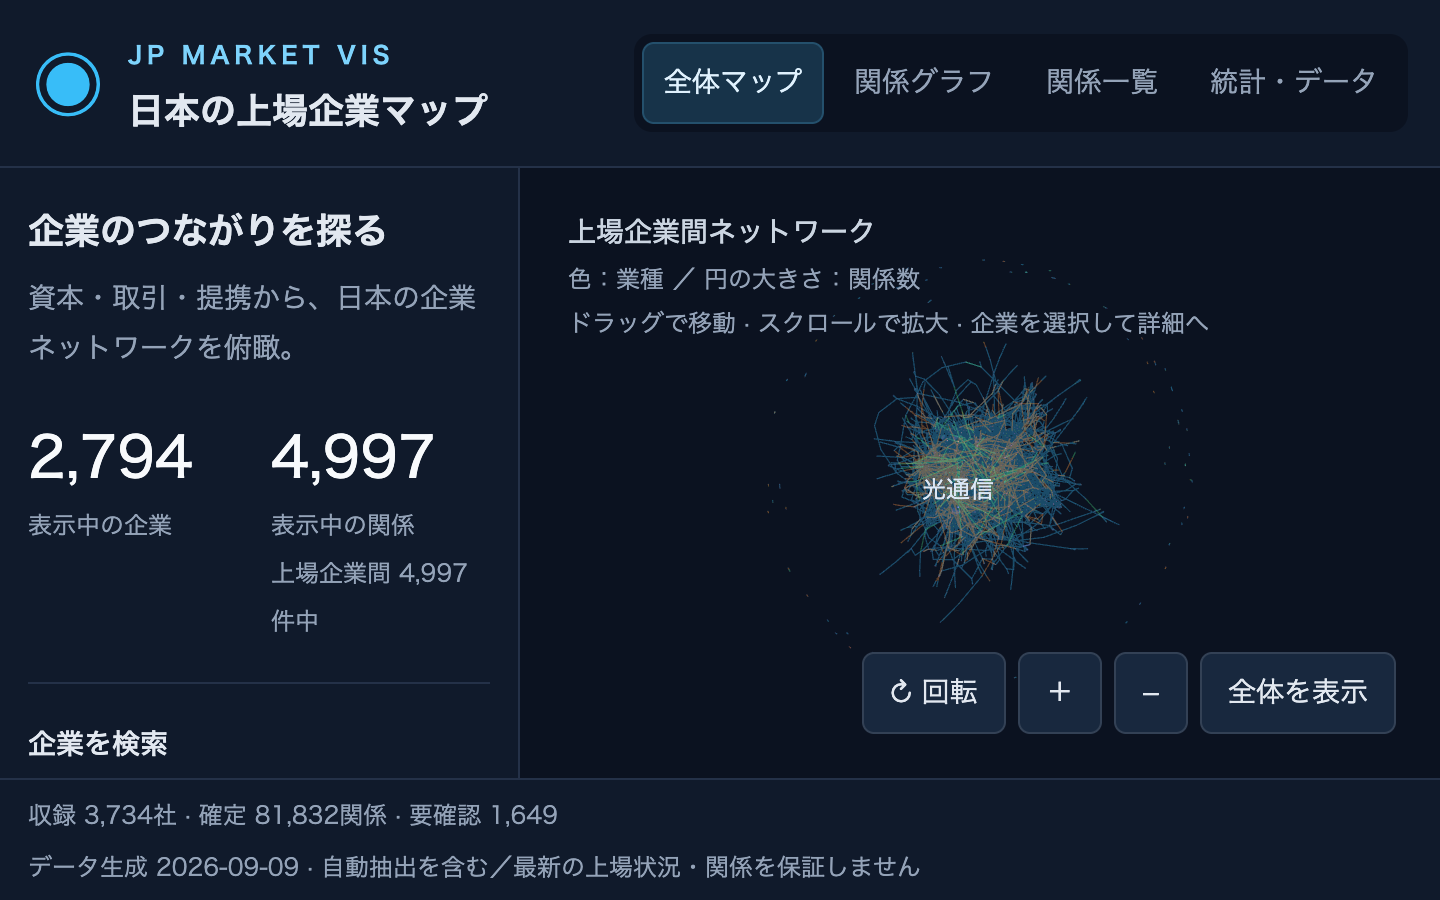
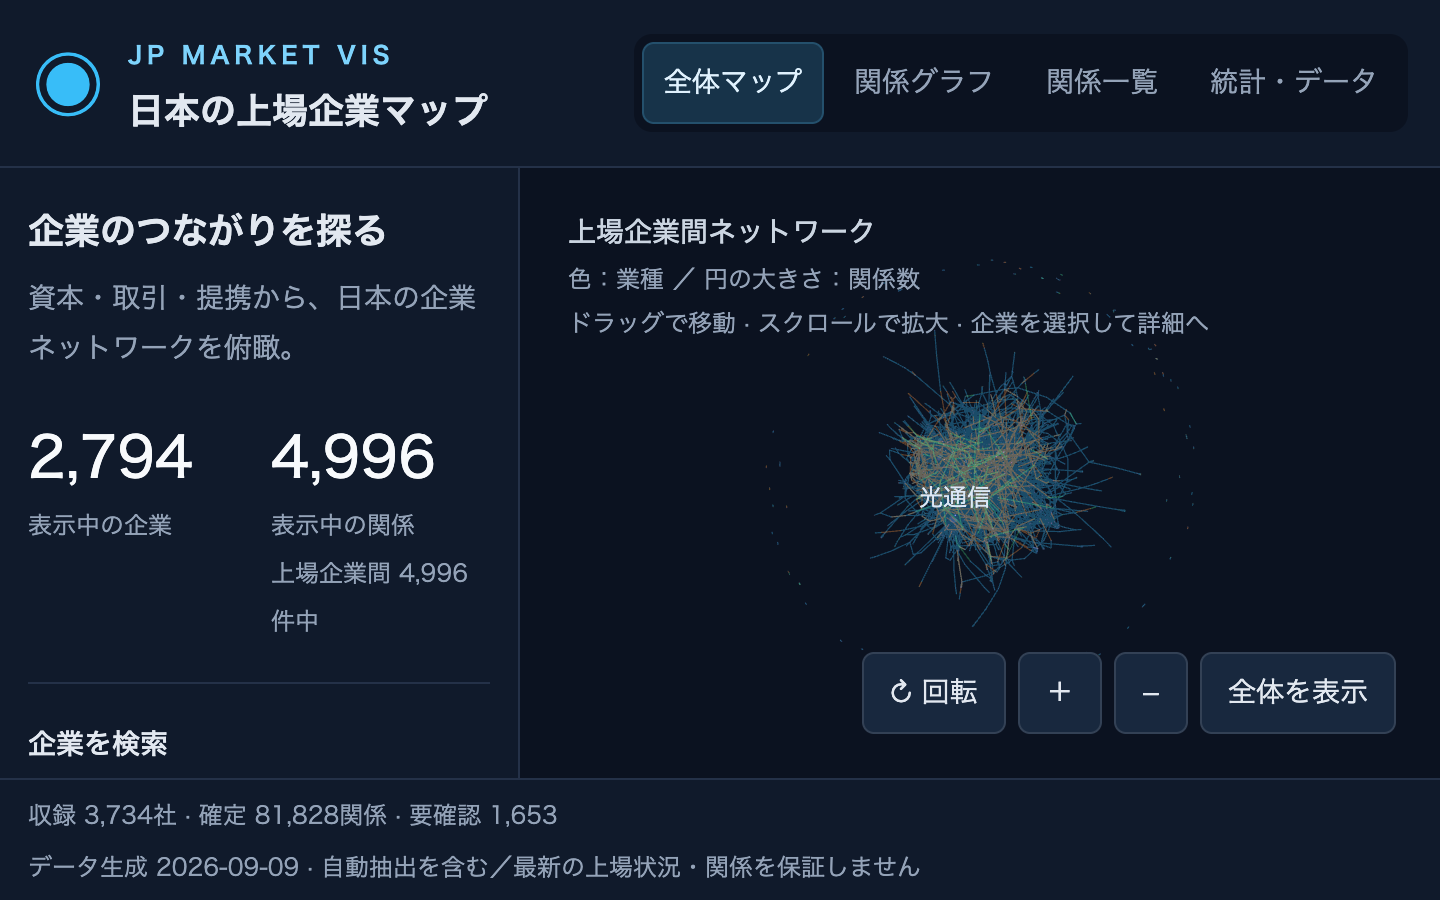
レビュー対応後の最終スタックで実操作レビューを再実行（39/39 合格）
Claude-Session: https://claude.ai/code/session_01LuhmHxdYo2ttrz4ATNVynS

diff --git a/qa/results/2026-09-09/REPORT.md b/qa/results/2026-09-09/REPORT.md
@@ -1,6 +1,6 @@
 # 実操作レビュー結果 2026-09-09
 
-- 対象コミット: `31c65899c64b69646b662e09fe56e0ed1a42d159`
+- 対象コミット: `faf737467342b36b47808478e8e94d2f520f8f2a`
 - URL: http://localhost:5184/JP_Market_Vis/
 - ブラウザ: Chrome 152.0.7977.83 (headless, Playwright)
 - 端末: darwin arm64（PC 1440×900 / 200%拡大相当 720×450 / タッチ 390×844 はエミュレーション。実機は未実施）
@@ -8,21 +8,21 @@
 
 | シナリオ | 項目 | 結果 | 補足 |
 | --- | --- | --- | --- |
-| PC初回 | 初回表示（マップ描画まで） | 合格 | 1120 ms |
+| PC初回 | 初回表示（マップ描画まで） | 合格 | 1341 ms |
 | PC初回 | コンソールエラーなし | 合格 |  |
 | PC初回 | 横スクロールなし | 合格 |  |
 | PC初回 | 見出し・操作部品の重なりなし | 合格 | {"capTools":false} |
 | 操作 | 回転ON | 合格 |  |
-| 操作 | 回転中のホイール拡大 | 合格 | 0.2008097916841507 -> 0.23093125224113464 |
+| 操作 | 回転中のホイール拡大 | 合格 | 0.20268428325653076 -> 0.23308692872524261 |
 | 操作 | 連続ドラッグ後、詳細を誤って開かない | 合格 |  |
-| 負荷 | 回転ドラッグ中の再描画回数（約0.6秒） | 合格 | 63 |
+| 負荷 | 回転ドラッグ中の再描画回数（約0.6秒） | 合格 | 62 |
 | 負荷 | 回転ON停止中の再描画回数/秒 | 合格 | 0 |
 | 操作 | 外側リリース後の再ドラッグで固着なし | 合格 |  |
 | 操作 | 矢印キー・Escで移動モードに戻る | 合格 |  |
 | 操作 | 回転後のクリックで見た目どおりの企業が開く | 合格 | キャンディル -> キャンディル |
 | フィルタ | 全解除で空状態を表示 | 合格 |  |
 | フィルタ | 初期状態に戻すで復帰 | 合格 |  |
-| フィルタ | 閾値20で表示線なし件数を表示 | 合格 | 30 表示中の企業 うち表示線なし 19社 7 表示中の関係 上場企業間 4,997件中 |
+| フィルタ | 閾値20で表示線なし件数を表示 | 合格 | 30 表示中の企業 うち表示線なし 19社 7 表示中の関係 上場企業間 4,996件中 |
 | フィルタ | 未収録カテゴリが無効化されている | 合格 |  |
 | 往復 | 関係グラフでエッジを選択して詳細を表示 | 合格 |  |
 | 往復 | 全体マップの検索・カテゴリ・件数を復元 | 合格 |  |
@@ -32,7 +32,7 @@
 | 一覧 | 検索変更で1ページ目に戻る | 合格 |  |
 | 一覧 | 詳細を開く | 合格 |  |
 | 一覧 | 詳細を閉じる | 合格 |  |
-| キーボード | Tabで検索欄に到達 | 合格 | BUTTON:全体マップ, BUTTON:関係グラフ, BUTTON:関係一覧, BUTTON:統計・データ, A:GitHub ↗, INPUT:map-search, BUTTON:資本4,259, BUTTON:取引656, BUTTON:提携81, BUTTON:グループ1, INPUT:min-degree, SUMMARY:業種の凡例, BUTTON:↻ 回転, BUTTON:拡大, BUTTON:縮小, BUTTON:全体を表示, BODY:◉JP MARKET V |
+| キーボード | Tabで検索欄に到達 | 合格 | BUTTON:全体マップ, BUTTON:関係グラフ, BUTTON:関係一覧, BUTTON:統計・データ, A:GitHub ↗, INPUT:map-search, BUTTON:資本4,259, BUTTON:取引656, BUTTON:提携80, BUTTON:グループ1, INPUT:min-degree, SUMMARY:業種の凡例, BUTTON:↻ 回転, BUTTON:拡大, BUTTON:縮小, BUTTON:全体を表示, BODY:◉JP MARKET V |
 | キーボード | Tabで表示切替タブに到達 | 合格 |  |
 | キーボード | Tabで回転ボタンに到達 | 合格 |  |
 | キーボード | 回転ONで回転領域にフォーカスが移る | 合格 |  |
